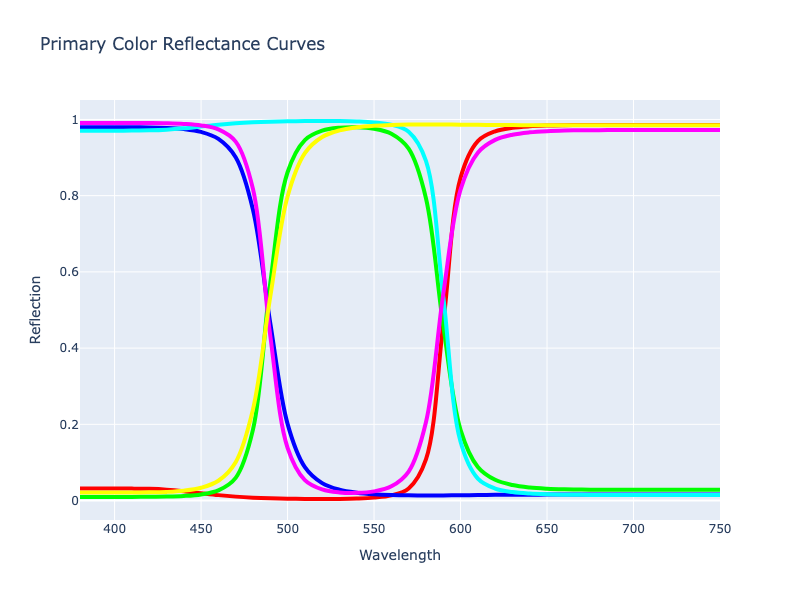
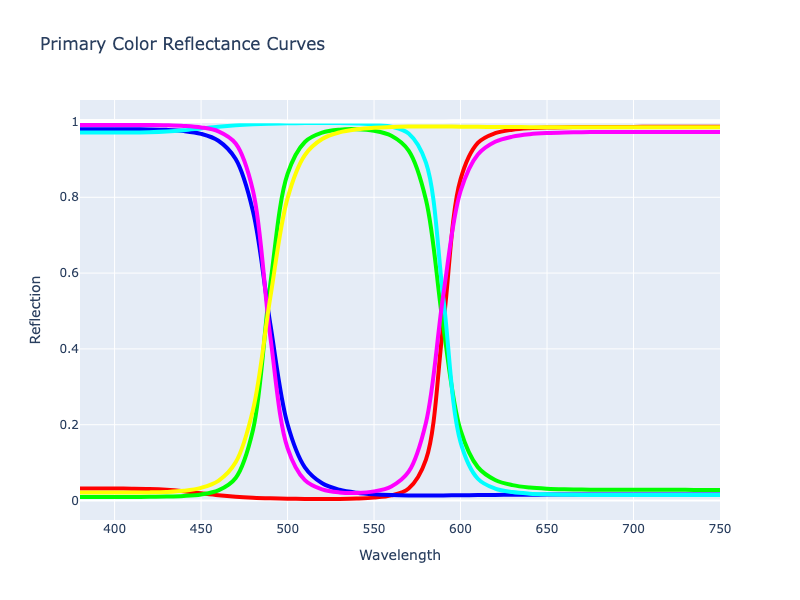
Adjust spectral mixing to account for white reflectance curve

diff --git a/docs/theme/playground-config-d832c658.js b/docs/theme/playground-config-d832c658.js
@@ -1,0 +1,5 @@
+var colorNotebook = {
+    "playgroundWheels": ['micropip', 'pygments-2.19.2-py3-none-any.whl', 'coloraide-5.1-py3-none-any.whl', 'coloraide_extras-1.12.2-py3-none-any.whl'],
+    "notebookWheels": ['pyyaml', 'markdown-3.8.2-py3-none-any.whl', 'pymdown_extensions-10.16.1-py3-none-any.whl', 'micropip', 'pygments-2.19.2-py3-none-any.whl', 'coloraide-5.1-py3-none-any.whl', 'coloraide_extras-1.12.2-py3-none-any.whl'],
+    "defaultPlayground": "from coloraide_extras.everything import ColorAll as Color\ncoloraide.__version__\ncoloraide_extras.__version__\nColor('color(--ucs 0.27493 0.21264 0.12243 / 1)')"
+}

diff --git a/tests/test_roundtrip.py b/tests/test_roundtrip.py
@@ -21,7 +21,14 @@ class TestRoundTrip:
 
     Color.deregister('space:hpluv')
 
-    SPACES = dict.fromkeys(Color.CS_MAP, 6)
+    SPACES = dict.fromkeys(Color.CS_MAP, 10)
+    # HCT will actually provide good conversion at about 11 decimal precision,
+    # but certain spaces have a gamma power function that is less accurate with RGB channels near zero
+    # (not necessarily near black): Rec. 2020, Rec. 709, etc. HCT, which approximates its inverse transform,
+    # can emphasizes these cases and fall a little below our target of 6. This is expected.
+    # To handle this in testing, we can specify more nuanced conditions. Provide the default precision,
+    # and optional lower precision, and spaces that would trigger this lower precision.
+    SPACES['hct'] = (10, 4, {'rec709', 'rec2020', 'a98-rgb'})
 
     COLORS = [
         Color('red'),
@@ -40,8 +47,13 @@ class TestRoundTrip:
         name = c1.to_string(names=True)
         c1.convert(space, in_place=True)
         p1 = self.SPACES[space]
+        original_space = space
+        # Is this a value or a tuple for conditional precision
+        conditional = isinstance(p1, tuple)
         for space, p2 in self.SPACES.items():
-            p = min(p1, p2)
+            pa = (p1[1] if space in p1[2] else p1[0]) if conditional else p1
+            pb = (p2[1] if original_space in p2[2] else p2[0]) if isinstance(p2, tuple) else p2
+            p = min(pa, pb)
             # Print the color space to easily identify which color space broke.
             c2 = c1.convert(space)
             c2.convert(c1.space(), in_place=True)
@@ -60,7 +72,7 @@ class TestRoundTrip:
             str2 = self.Color(c2.to_string(color=True, fit=False)).to_string(color=True, fit=False, precision=p)
             # Print failing results for debug purposes
             if str1 != str2:
-                print('----- Convert: {} <=> {} -----'.format(c1.space(), space))
+                print(f'----- Convert: {c1.space()} <=> {space} -----')
                 print('Name: ', name)
                 print('Original: ', color.to_string(color=True, fit=False, precision=p))
                 print(c1.space() + ': ', str1, c1[:])
@@ -90,7 +102,7 @@ class TestAchromaticRoundTrip(TestRoundTrip):
     Color.deregister('space:ryb')
     Color.deregister('space:ryb-biased')
 
-    SPACES = dict.fromkeys(Color.CS_MAP, 6)
+    SPACES = dict.fromkeys(Color.CS_MAP, 10)
 
     COLORS = [
         Color('darkgrey'),

diff --git a/coloraide_extras/interpolate/spectral.py b/coloraide_extras/interpolate/spectral.py
@@ -168,8 +168,21 @@ REF_Y = [
     0.9847029256160507, 0.984702868123764
 ]
 
+REF_W = [
+    1.0011609380945206, 1.0011608623718085, 1.0011605295297332, 1.0011588809895395,
+    1.0011527996370448, 1.0011327038479474, 1.0010851344696379, 1.0009969223979824,
+    1.000865191602915, 1.0006961357507411, 1.000504750049934, 1.0003078659509828,
+    1.000119494451461, 0.9999526742333059, 0.9998218359182679, 0.9997386813870067,
+    0.999709657158615, 0.999732027037823, 0.9997994926837177, 0.9999003348396848,
+    1.0000203680490436, 1.000144727840223, 1.0002599198116873, 1.0003557541640735,
+    1.0004275168049208, 1.0004762320514617, 1.0005072228582503, 1.0005252140962848,
+    1.000535124149449, 1.0005402521608604, 1.000542761051987, 1.0005439295178398,
+    1.0005445165353923, 1.0005448043949652, 1.0005449339234573, 1.0005449977629202,
+    1.0005450245916068, 1.0005450323634841
+]
+
 SIZE = len(X_BAR)
-REFLECTANCE = [REF_C, REF_M, REF_Y, REF_R, REF_G, REF_B]
+REFLECTANCE = [REF_W, REF_C, REF_M, REF_Y, REF_R, REF_G, REF_B]
 
 
 def calculate_mixing_concentration(t: float, l1: float, l2: float) -> tuple[float, float]:
@@ -200,7 +213,9 @@ def xyz_to_concentration(xyz: Vector) -> Vector:
     Concentrations should be constrained to [0, 1].
     """
 
-    r, g, b = alg.matmul_x3(XYZ_TO_RGB, xyz, dims=alg.D2_D1)
+    lrgb = alg.matmul_x3(XYZ_TO_RGB, xyz, dims=alg.D2_D1)
+    w = max(min(lrgb), 0.0)
+    r, g, b = lrgb[0] - w, lrgb[1] - w, lrgb[2] - w
     cy = max(min(g, b), 0.0)
     ma = max(min(r, b - cy), 0.0)
     ye = max(min(r - ma, g - cy), 0.0)
@@ -208,6 +223,7 @@ def xyz_to_concentration(xyz: Vector) -> Vector:
     g -= cy + ye
     b -= cy + ma
     return [
+        min(w, 1.0),
         min(cy, 1.0),
         min(ma, 1.0),
         min(ye, 1.0),

diff --git a/tools/plot_reflect.py b/tools/plot_reflect.py
@@ -49,14 +49,15 @@ def main():
         plot = [color.convert('srgb').to_string(hex=True)]
 
         if args.decomp:
-            target.append([ri * c[0] for ri in spectral.REF_C])
-            target.append([ri * c[1] for ri in spectral.REF_M])
-            target.append([ri * c[2] for ri in spectral.REF_Y])
-            target.append([ri * c[3] for ri in spectral.REF_R])
-            target.append([ri * c[4] for ri in spectral.REF_G])
-            target.append([ri * c[5] for ri in spectral.REF_B])
-            plot.extend(['#00ffff', '#ff00ff', '#ffff00', '#ff0000', '#00ff00', '#0000ff'])
-            style.extend(['dash'] * 6)
+            target.append([ri * c[0] for ri in spectral.REF_W])
+            target.append([ri * c[1] for ri in spectral.REF_C])
+            target.append([ri * c[2] for ri in spectral.REF_M])
+            target.append([ri * c[3] for ri in spectral.REF_Y])
+            target.append([ri * c[4] for ri in spectral.REF_R])
+            target.append([ri * c[5] for ri in spectral.REF_G])
+            target.append([ri * c[6] for ri in spectral.REF_B])
+            plot.extend(['#ffffff', '#00ffff', '#ff00ff', '#ffff00', '#ff0000', '#00ff00', '#0000ff'])
+            style.extend(['dash'] * 7)
     else:
         color = Color(args.color[0])
         xyz = color.convert('xyz-d65')[:-1]

diff --git a/tools/calc_reflect.py b/tools/calc_reflect.py
@@ -15,7 +15,7 @@ from coloraide import algebra as alg  # noqa: E402
 from coloraide.everything import ColorAll as Color  # noqa: E402
 from coloraide.cmfs import CIE_1931_2DEG as CMF  # noqa: E402
 
-targets = ['#ff0000', '#00ff00', '#0000ff', '#00ffff', '#ff00ff', '#ffff00']
+targets = ['#ff0000', '#00ff00', '#0000ff', '#00ffff', '#ff00ff', '#ffff00', '#ffffff']
 space = 'srgb'
 # With the current settings, method2 requires an epsilon of 1e-14, while method 3 can use 1e-15
 # More iterations may be required for for higher step resolutions.
@@ -25,7 +25,7 @@ START = 380
 STEP = 10
 END = 750 + STEP
 MAX_ITERS = 50
-METHOD = 2
+METHOD = 3
 EPSILON = 1e-15 if METHOD == 3 else 1e-14
 
 # Values at 1 nanometers
@@ -852,6 +852,8 @@ def method_3(d, cmfs_w, XYZ_w, max_iterations=MAX_ITERS, tolerance=EPSILON):
 rho = []
 for color in targets:
     c = Color(color).convert('srgb-linear').coords()
+    METHOD = 2 if c == [1, 1, 1] else 3
+    EPSILON = 1e-15 if METHOD == 3 else 1e-14
     if METHOD == 3:
         r = method_3(D, alg.transpose(TRGB), c)
     elif METHOD == 2:

diff --git a/tests/test_interpolate.py b/tests/test_interpolate.py
@@ -152,12 +152,12 @@ class TestSpectral(util.ColorAsserts, unittest.TestCase):
 
         self.assertColorEqual(
             Color.interpolate([red, green, blue], method='spectral-continuous')(0.25),
-            Color('color(xyz-d65 0.06172 0.046 0.011)')
+            Color('color(xyz-d65 0.06178 0.04602 0.01101)')
         )
 
         self.assertColorEqual(
             Color.interpolate([red, green, blue], method='spectral-continuous')(0.75),
-            Color('color(xyz-d65 0.02659 0.05347 0.0299)')
+            Color('color(xyz-d65 0.0266 0.05348 0.02989)')
         )
 
     def test_bad_color_space_continuous(self):
@@ -219,4 +219,3 @@ class TestSpectral(util.ColorAsserts, unittest.TestCase):
             )(1),
             Color('color(xyz-d65 0.09024 0.0361 0.47527 / 1)')
         )
-

diff --git a/coloraide_extras/__meta__.py b/coloraide_extras/__meta__.py
@@ -193,5 +193,5 @@ def parse_version(ver: str) -> Version:
     return Version(major, minor, micro, release, pre, post, dev)
 
 
-__version_info__ = Version(1, 12, 1, "final")
+__version_info__ = Version(1, 12, 2, "final")
 __version__ = __version_info__._get_canonical()

diff --git a/docs/src/markdown/interpolate/spectral.md b/docs/src/markdown/interpolate/spectral.md
@@ -55,8 +55,8 @@ research details a way to use spectral data to approximate reflectance curves fo
 
 ![Primary Reflectance Curves](../images/reflectance-curves.png)
 /// figure-caption
-Reflectance curves of cyan, magenta, yellow, red, green, and blue as approximated using the method proposed by Scott
-Burns.
+Reflectance curves of white, cyan, magenta, yellow, red, green, and blue as approximated using the methods proposed by
+Scott Burns.
 ///
 
 With our primary colors selected and the reflectance curves created for each one, we can use these curves to create any
@@ -65,8 +65,8 @@ reflectance curves and then construct a new curve that represents the color.
 
 ![Decomposition of Color Reflectance Concentrations](../images/reflect-orange.png)
 /// figure-caption
-Orange decomposed into cyan, magenta, yellow, red, green, and blue reflectance curves and then reconstructed into its
-own curve.
+Orange decomposed into white, cyan, magenta, yellow, red, green, and blue reflectance curves and then reconstructed into
+its own curve.
 ///
 
 With the ability to represent almost any color within our gamut as a reflectance curve, we then can mix colors by
@@ -94,8 +94,7 @@ appears more like what you wound have when using something like Mixbox.
 ## Differences
 
 It should be noted that we do deviate a bit from the Spectral.js implementation. As we explored this approach we found
-a few things that we found to be unnecessary, things we could improve upon, or just things we approached slightly
-different.
+a few things that we found to be unnecessary, or things we had to do slightly different.
 
 1.  Following the approach outlined by Scott Burns, we regenerated all the data at higher precision and ensured that it
     was done with the same transformation matrices and white points that we use within our library. This was done just
@@ -103,58 +102,35 @@ different.
     Spectral.js does, but values _might_ be slightly different as we did the calculations ourselves with our exact
     white points and matrices.
 
-2.  Spectral.js uses primary colors of:
+2.  During decomposition of colors, we constrain concentrations to be between 0 and 1 and  we constrain composite
+    reflectance curves to be between a very small value and 1 as the Kubelka-Munk functions expect reflectance to not be
+    zero and not exceed 1. The Kubelka-Munk mixing function does not handle values that exceed 1 and cannot round trip
+    these values. Spectral.js only constrains the lower end.
 
-    - `#!color rgb(255 255 255)`
-    - `#!color rgb(255 0 0)`
-    - `#!color rgb(0 255 0)`
-    - `#!color rgb(0 0 255)`
-    - `#!color rgb(0 255 255)`
-    - `#!color rgb(255 0 255)`
-    - `#!color rgb(255 255 0)`
-
-    During our evaluation, we found that including `#!color rgb(255 255 255)` provided no significant improvements as
-    the other primary colors provide sufficient coverage with comparable results.
-
-    In order to drop `#!color rgb(255 255 255)` as a primary curve, we simply adjusted the algorithm that calculated
-    concentrations so that the decomposition of linear sRGB values into cyan, magenta, yellow, red, green, and blue was
-    not dependent upon white being subtracted first.
-
-3.  During decomposition of colors, we constrain concentrations to be between 0 and 1. Concentrations are always
-    relative to the colors they are mixing with. You can't have 200% of red and 100% of blue paint as what this really
-    represents is 2 parts red and 1 part blue, which equates to 0.6666666666666666% of red and 0.3333333333333333% of
-    blue. You can never mix more than 100% of a given wavelength as it would create unrealistic reflectance curves that
-    would break when performing the Kubelka-Munk mix. Spectral.js only constrains the lower end.
-
-    Additionally, we constrain composite reflectance curves to be between a very small value and 1 as the Kubelka-Munk
-    functions expect reflectance to not be zero and not exceed 1. The Kubelka-Munk mixing function does not handle
-    values that exceed 1 very well and cannot round trip these values. Spectral.js only constrains the lower end.
-
-    These changes will alter the curve compared to Spectral.js when getting very close to white or exceeding the sRGB
-    gamut. The primary curves do not sum up to 1 perfectly and can sum to values greater than 1. This means color
-    information is lost, but the information would be inaccurate when passing through the Kubelka-Munk mixing functions.
+    These changes will alter the curve compared to Spectral.js when the composite reflectance curve has values that
+    exceed one; such as, very close to white or exceeding the sRGB gamut. The primary curves can create composite
+    reflectance curves that exceed one at various wavelengths. This means color information is lost, but the information
+    would be lost regardless, and inaccurate when passing through the Kubelka-Munk mixing functions.
 
     We compensate for the color information that is lost by capturing the residual (the difference between the expected
     XYZ value and the recreated XYZ value) and mixing those separately and then adding the mixed residual back into the
     final color at the end. This allows us to reasonably represent colors that may exceed the actual gamut that the
     primary reflectance curves can actually reproduce and even colors that exceed the sRGB gamut entirely. It should be
     noted though that colors within the sRGB gamut should be considered to have more accurate Kubelka-Munk mixing as
-    there will only be slight clamping within sRGB colors when they get close to white.
+    there will only be slight clamping within sRGB colors at the edge of the sRGB gamut.
 
     Better stated, the Spectral.js approach can process most of the colors in the sRGB gamut well, but not all.
     Our adjusted approach allows us to better handle colors at the edge of what the Spectral.js approach can support for
     the sRGB gamut and beyond.
 
-    It should be noted though that Spectral.js does clamp their final result to the course resolution of sRGB
-    hexadecimal values, and because they are limited to the sRGB gamut only, and to such a low resolution, inaccuracies
-    are not easily observable. Since we allow for higher precision and larger gamuts, we cannot get away with the same
-    approach and require some mitigation.
+    It should be noted though that Spectral.js is constrained to the sRGB gamut, and any inaccuracies near the edge of
+    the sRGB gamut are not really noticeable.
 
-4.  Spectral.js generally clips the mixed colors to sRGB hexadecimal resolution before returning them. We do not clip
-    any colors that are out-of-gamut due to mixing in case the user is within a gamut that can accommodate them. We
-    also do not force hexadecimal resolution. We let the user choose how they will gamut map their colors and to what
-    resolution they wish to round their values to. This means we allow colors that exceed the sRGB gamut if that is
-    desired. In short, users are free to clip or gamut map their returned colors in any way they see fit.
+4.  Spectral.js generally clips or gamut maps the mixed colors to sRGB hexadecimal resolution before returning them. We
+    do not clip any colors that are out-of-gamut due to mixing in case the user is within a gamut that can accommodate
+    them. We also do not force hexadecimal resolution. We let the user choose how they will gamut map their colors and
+    to what resolution they wish to round their values to. This means we allow colors that exceed the sRGB gamut if that
+    is desired. In short, users are free to clip or gamut map their returned colors in any way they see fit.
 
     ```py play
     c1 = Color('color(display-p3 0 0 1)')

diff --git a/docs/src/markdown/about/changelog.md b/docs/src/markdown/about/changelog.md
@@ -1,5 +1,9 @@
 # Changelog
 
+## 1.12.2
+
+-   **FIX**: Include white in spectral mixing to create smoother curves in all cases.
+
 ## 1.12.1
 
 -   **FIX**: Adjust the spectral mixing to use a smaller epsilon that matches the current Spectral.js implementation.
